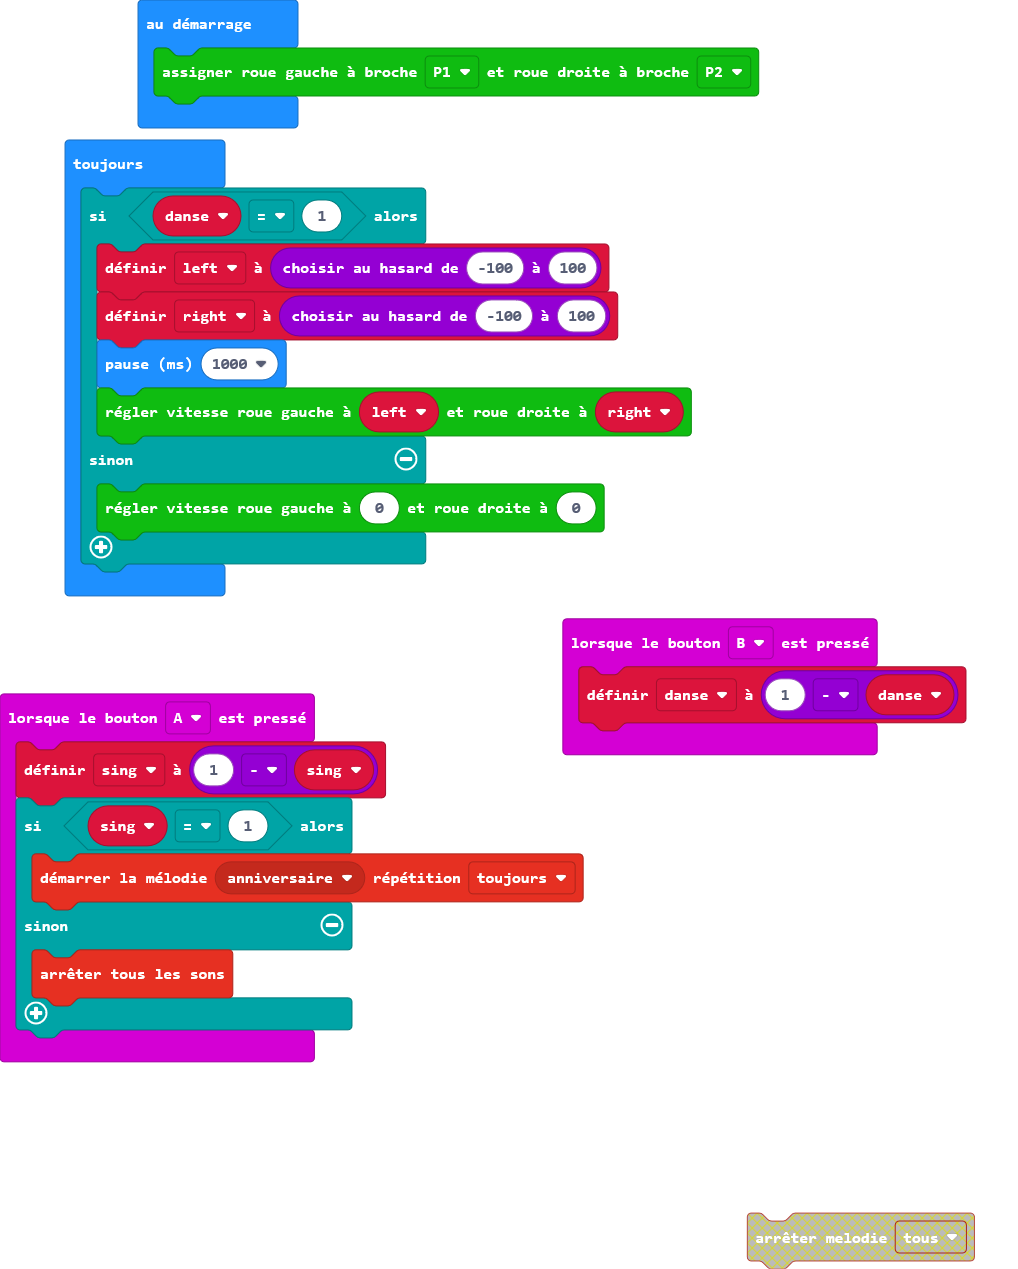
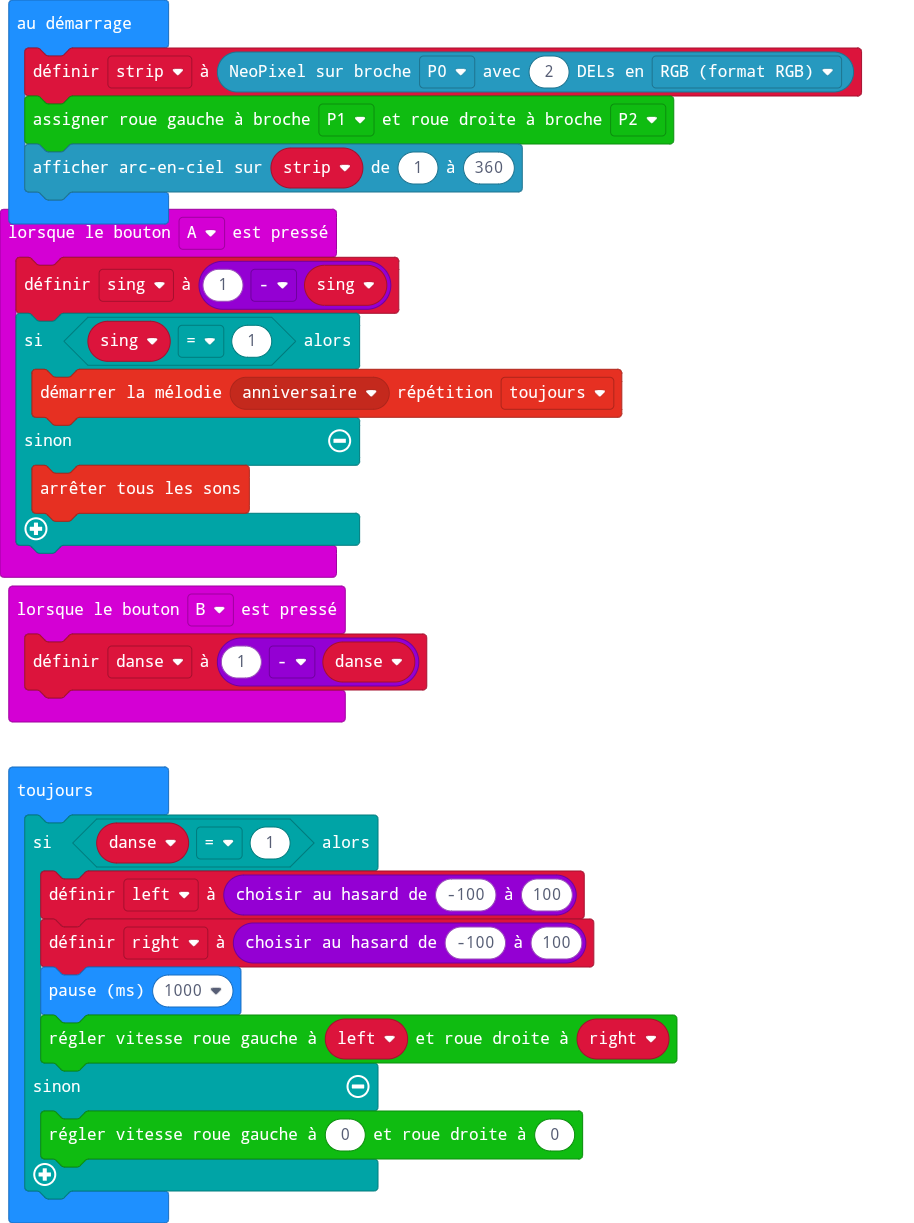
Mise à jour main.blocks, main.ts

diff --git a/main.ts b/main.ts
@@ -13,7 +13,9 @@ let right = 0
 let left = 0
 let danse = 0
 let sing = 0
+let strip = neopixel.create(DigitalPin.P0, 2, NeoPixelMode.RGB)
 RingbitCar.init_wheel(AnalogPin.P1, AnalogPin.P2)
+strip.showRainbow(1, 360)
 basic.forever(function () {
     if (danse == 1) {
         left = randint(-100, 100)
